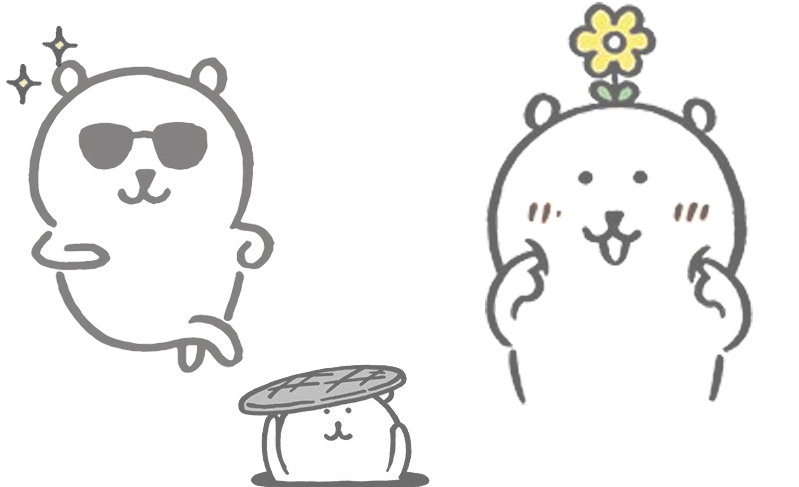
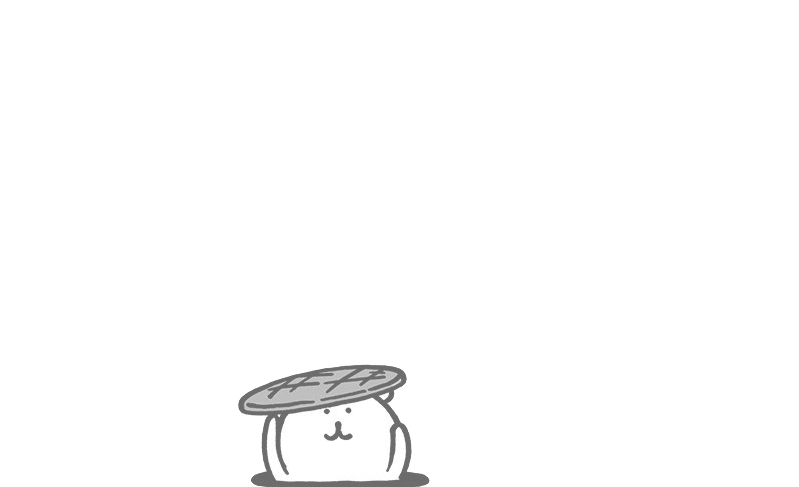
배경 수정!

diff --git a/AvataMaker/src/guis/StoreFrame.java b/AvataMaker/src/guis/StoreFrame.java
@@ -89,7 +89,7 @@ public class StoreFrame {
 		onoff.mainOnOff(onoff.avatarGet(main.user_pk), onoff.storeAvatarGet());
 		onoff.avatarGet(main.user_pk);
 	
-		
+		ImageIcon 스토어배경 = new ImageIcon("src/image/스토어_배경.png");
 		ImageIcon 배경 = new ImageIcon("src/image/미리보기"+ main.avatar.avatarOnFinding(main.user_pk, "배경"));
 		ImageIcon 얼굴 = new ImageIcon("src/image/미리보기" + main.avatar.avatarOnFinding(main.user_pk, "얼굴"));  // 캐릭터 옷 아이콘 =================
 		ImageIcon 악세서리 = new ImageIcon("src/image/미리보기" + main.avatar.avatarOnFinding(main.user_pk, "악세사리"));
@@ -597,6 +597,10 @@ public class StoreFrame {
 		lblNewLabel_2.setHorizontalAlignment(SwingConstants.RIGHT);
 		lblNewLabel_2.setBounds(563, 461, 157, 16);
 		frame.getContentPane().add(lblNewLabel_2);
+		
+		JLabel mainBackGround = new JLabel(스토어배경);
+		mainBackGround.setBounds(0, 0, 799, 487);
+		frame.getContentPane().add(mainBackGround);
 	}
 
 }
